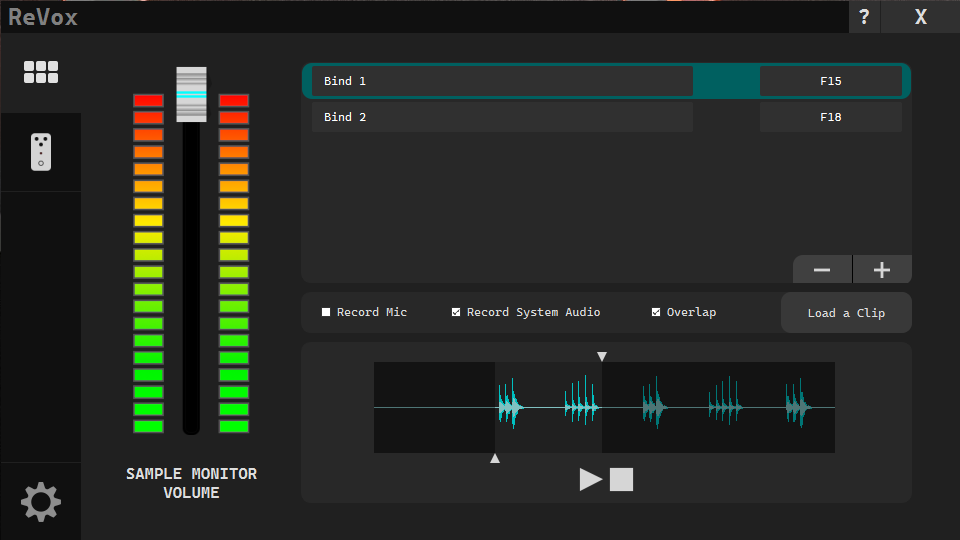
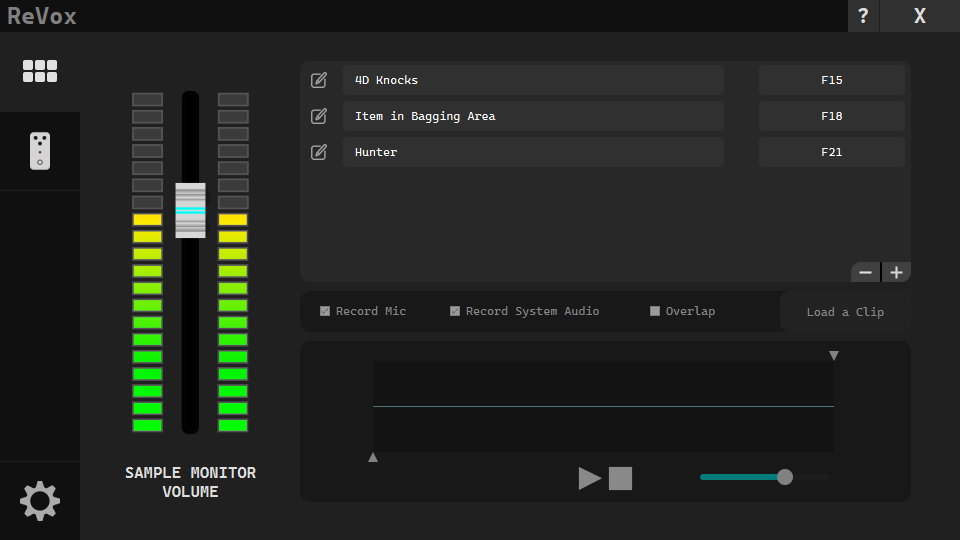
added/changed wiki images

diff --git a/source/qt/rc/hotkeyitem.cpp b/source/qt/rc/hotkeyitem.cpp
@@ -5,7 +5,7 @@ void HotkeyItem::rebind()
     cb.audioManager->Rebind(cb.keycode);
     cb.keyboardListener->rebinding = true;
 
-    hotkey->setText("*Select a Key*");
+    hotkey->setText("Press a Key");
     this->hotkey->setStyleSheet("QPushButton {border-radius: 3px; background-color: #303030; color: #AA0000;}"
                                 "QPushButton:hover {background-color: #404040;}");
     hotkey->blockSignals(true);
@@ -18,9 +18,9 @@ void HotkeyItem::rebind()
 void HotkeyItem::labelChanged()
 {
     int pos = this->label->cursorPosition();
-    if (this->label->text().length() > 18)
+    if (this->label->text().length() > 30)
     {
-        this->label->setText(this->label->text().left(18));
+        this->label->setText(this->label->text().left(30));
         this->label->setAlignment(Qt::AlignVCenter);
     }
     this->label->setCursorPosition(pos);
